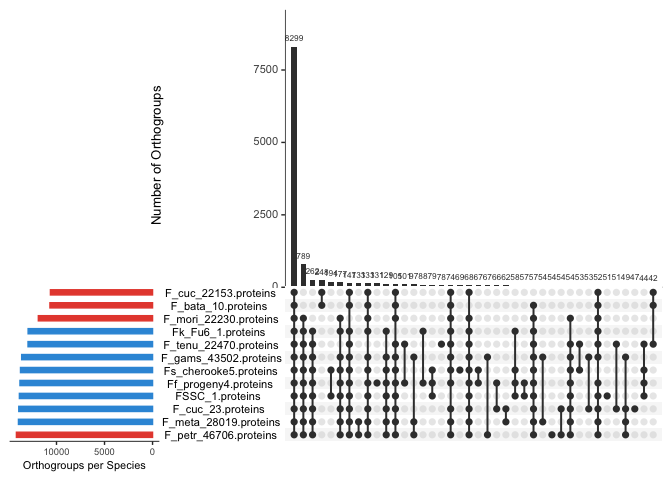
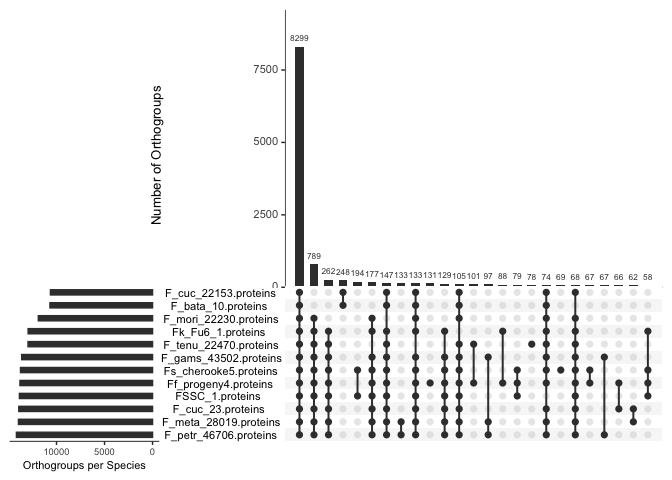
slight changes in code.

Changed region(s): [[0.4062, 0.0625, 1.0, 0.9375], [0.0, 0.5938, 0.25, 0.9375]]

diff --git a/Data_Analysis_HTproject.md b/Data_Analysis_HTproject.md
@@ -34,6 +34,7 @@ Downstream Analysis Heat Tolerant vs Non-Heat Tolerant Genomes
     meta <- read.csv("Data/metadata.csv")
     rownames(meta) <- meta$genome
 
+    cbbPalette <- c("#000000", "#E69F00", "#56B4E9", "#009E73", "#F0E442", "#0072B2", "#D55E00", "#CC79A7")
     # Confirm column names match metadata
     all(colnames(ortho) %in% meta$genome)  # Should return TRUE
 
@@ -110,12 +111,9 @@ Downstream Analysis Heat Tolerant vs Non-Heat Tolerant Genomes
     # Make each species a column (UpSetR needs species as columns)
     upset_input <- as.data.frame(pa_matrix)
 
-    # Add group color labels
-    species_colors <- ifelse(colnames(upset_input) %in% heat_species, "#E74C3C", "#3498DB")
-
     upsetplot <- upset(upset_input,
           sets = colnames(upset_input),
-          sets.bar.color = species_colors,
+          nintersects = 25,
           order.by = "freq",
           decreasing = TRUE,
           mb.ratio = c(0.6, 0.4),
@@ -159,22 +157,21 @@ Downstream Analysis Heat Tolerant vs Non-Heat Tolerant Genomes
     # Filter for variable orthogroups (not all same value)
     variable_OGs <- ortho[apply(ortho, 1, var) > 0, ]
 
-    # Take top 50 most variable for cleaner heatmap
+    # Take top 30 most variable for cleaner heatmap
     top_variable <- variable_OGs[order(apply(variable_OGs, 1, var),
-                                       decreasing = TRUE), ][1:50, ]
+                                       decreasing = TRUE), ][1:30, ]
 
     # Annotation for columns (species)
     col_annotation <- data.frame(Group = meta$group)
     rownames(col_annotation) <- meta$genome
 
-    ann_colors <- list(Group = c(heat_tolerant     = "#E74C3C",
-                                  non_heat_tolerant = "#3498DB"))
+    ann_colors <- list(Group = c(heat_tolerant     = "#D55E00",
+                                  non_heat_tolerant = "#56B4E9"))
 
-    #png("heatmap_top50_variable_OGs.png", width = 1200, height = 1400, res = 150)
     heatmap <- pheatmap(top_variable,
              annotation_col = col_annotation,
              annotation_colors = ann_colors,
-             color = colorRampPalette(c("white", "#FFF3CD", "#E74C3C"))(50),
+             color = colorRampPalette(c("white", "#F0E442", "#E74C3C"))(30),
              clustering_distance_rows = "euclidean",
              clustering_distance_cols = "euclidean",
              clustering_method = "complete",
@@ -182,7 +179,7 @@ Downstream Analysis Heat Tolerant vs Non-Heat Tolerant Genomes
              show_colnames = TRUE,
              fontsize_col = 9,
              fontsize_row = 7,
-             main = "Top 50 Variable Orthogroups — Gene Copy Number",
+             main = "Top 30 Variable Orthogroups — Gene Copy Number",
              border_color = NA)
     heatmap
 
@@ -205,16 +202,65 @@ Downstream Analysis Heat Tolerant vs Non-Heat Tolerant Genomes
 
 
     ggplot(summary_df, aes(x = reorder(Category, -Count), y = Count, fill = Category)) +
-      geom_bar(stat = "identity", width = 0.65) +
+      geom_bar(stat = "identity", width = 0.6) +
       geom_text(aes(label = Count), vjust = -0.5, size = 4.5, fontface = "bold") +
-      scale_fill_manual(values = c("#E74C3C", "#F39C12", "#3498DB",
-                                    "#27AE60", "#9B59B6")) +
+      scale_fill_manual(values = c("#E69F00", "#56B4E9", "#009E73", "#F0E442", "#0072B2", "#D55E00")) +
       labs(title = "Orthogroup Distribution by Category",
            x = NULL, y = "Number of Orthogroups") +
-      theme_minimal(base_size = 13) +
+      theme_classic(base_size = 13) +
       theme(legend.position = "none",
-            axis.text.x = element_text(angle = 30, hjust = 1, size = 10),
-            plot.title = element_text(hjust = 0.5, face = "bold"))
+            axis.text.x = element_text(angle = 30, hjust = 1, size = 8),
+            plot.title = element_text(hjust = 0.5, face = "bold")) 
 
-![](Data_Analysis_HTproject_files/figure-markdown_strict/unnamed-chunk-9-1.png)
+![](Data_Analysis_HTproject_files/figure-markdown_strict/unnamed-chunk-9-1.png) -
 58 unique orthogroups were found strictly on the heat tolerant species.
+
+\#Future work The genes within these group should be functionally
+annotated and any genes that can have potential function relating to
+heat tolerance can be further studied.
+
+    print_tree <- function(path = ".", prefix = "") {
+      files <- list.files(path, all.files = FALSE)
+      
+      for (i in seq_along(files)) {
+        cat(prefix, "├── ", files[i], "\n", sep = "")
+        
+        full_path <- file.path(path, files[i])
+        
+        if (dir.exists(full_path)) {
+          print_tree(full_path, paste0(prefix, "│   "))
+        }
+      }
+    }
+
+    # Run it
+    print_tree()
+
+    ## ├── core_orthogroups_all12.csv
+    ## ├── Data
+    ## │   ├── metadata.csv
+    ## │   ├── Orthogroups.GeneCount.tsv
+    ## │   ├── Orthogroups.tsv
+    ## ├── Data_Analysis_HTproject_files
+    ## │   ├── figure-markdown_strict
+    ## │   │   ├── unnamed-chunk-7-1.png
+    ## │   │   ├── unnamed-chunk-8-1.png
+    ## │   │   ├── unnamed-chunk-9-1.png
+    ## ├── Data_Analysis_HTproject.md
+    ## ├── Data_Analysis_HTproject.Rmd
+    ## ├── Fusarium_HeatTolerance.Rproj
+    ## ├── HPC_scripts
+    ## │   ├── Busco+basicstats.sh
+    ## │   ├── Clean_sort_mask.sh
+    ## │   ├── Orthofinder.sh
+    ## │   ├── predict.sh
+    ## ├── orthogroups_softcore_heat_tolerant.csv
+    ## ├── orthogroups_unique_heat_tolerant.csv
+    ## ├── orthogroups_unique_non_heat_tolerant.csv
+    ## ├── README.html
+    ## ├── README.md
+    ## ├── Results
+    ## │   ├── core_orthogroups_all12.csv
+    ## │   ├── orthogroups_softcore_heat_tolerant.csv
+    ## │   ├── orthogroups_unique_heat_tolerant.csv
+    ## │   ├── orthogroups_unique_non_heat_tolerant.csv
